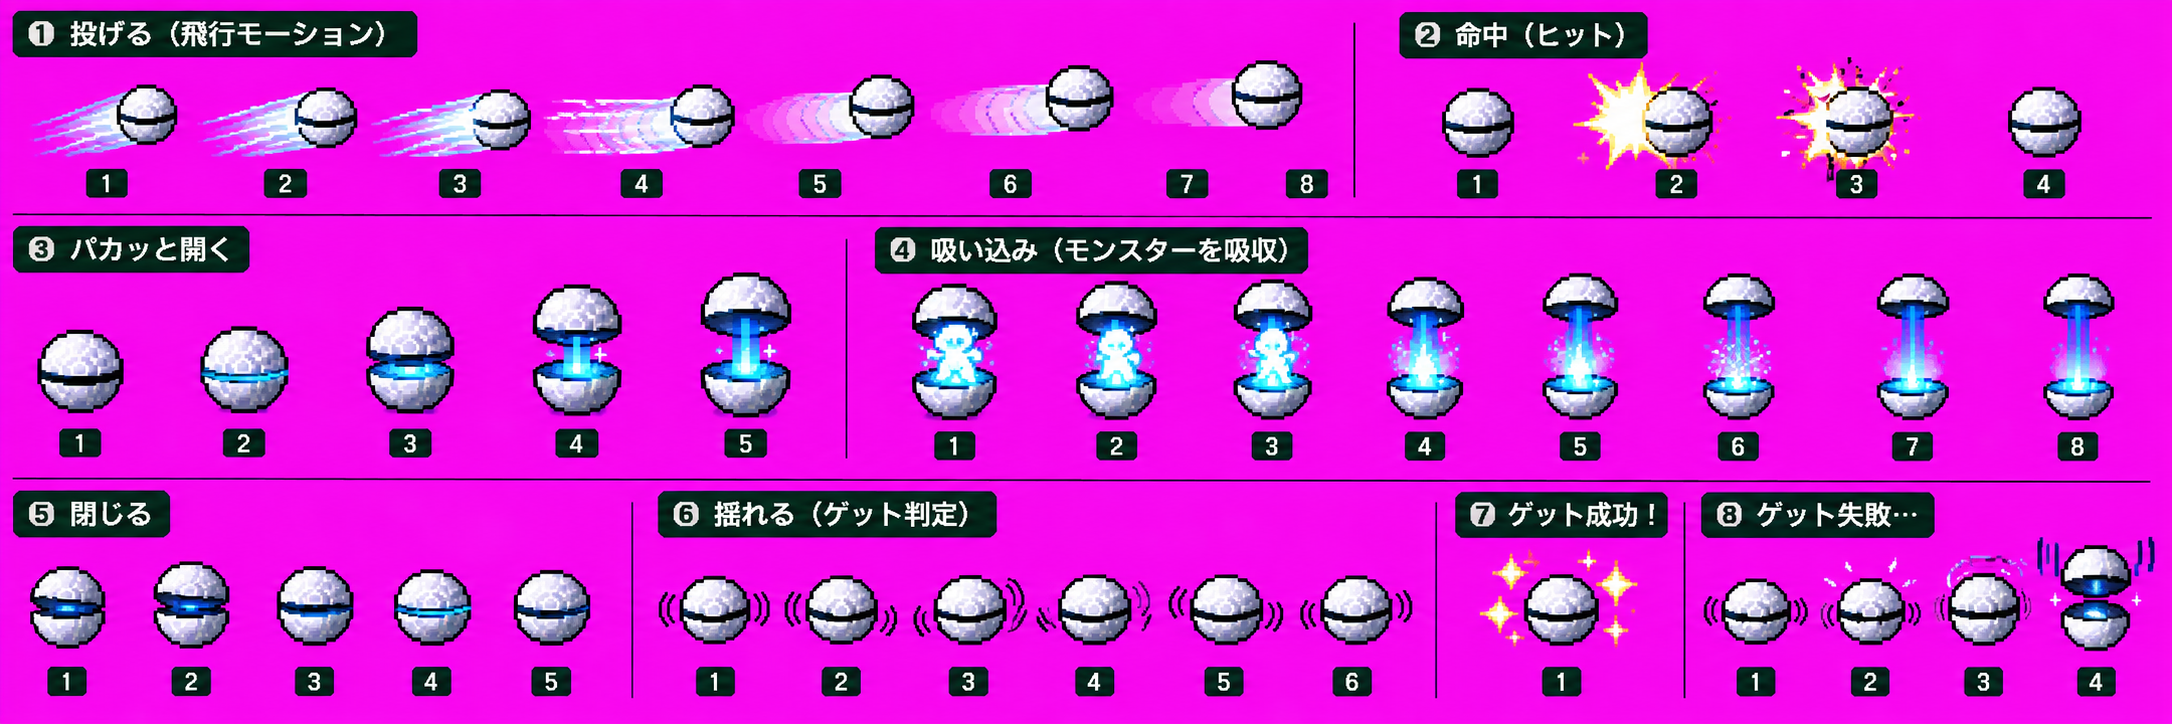
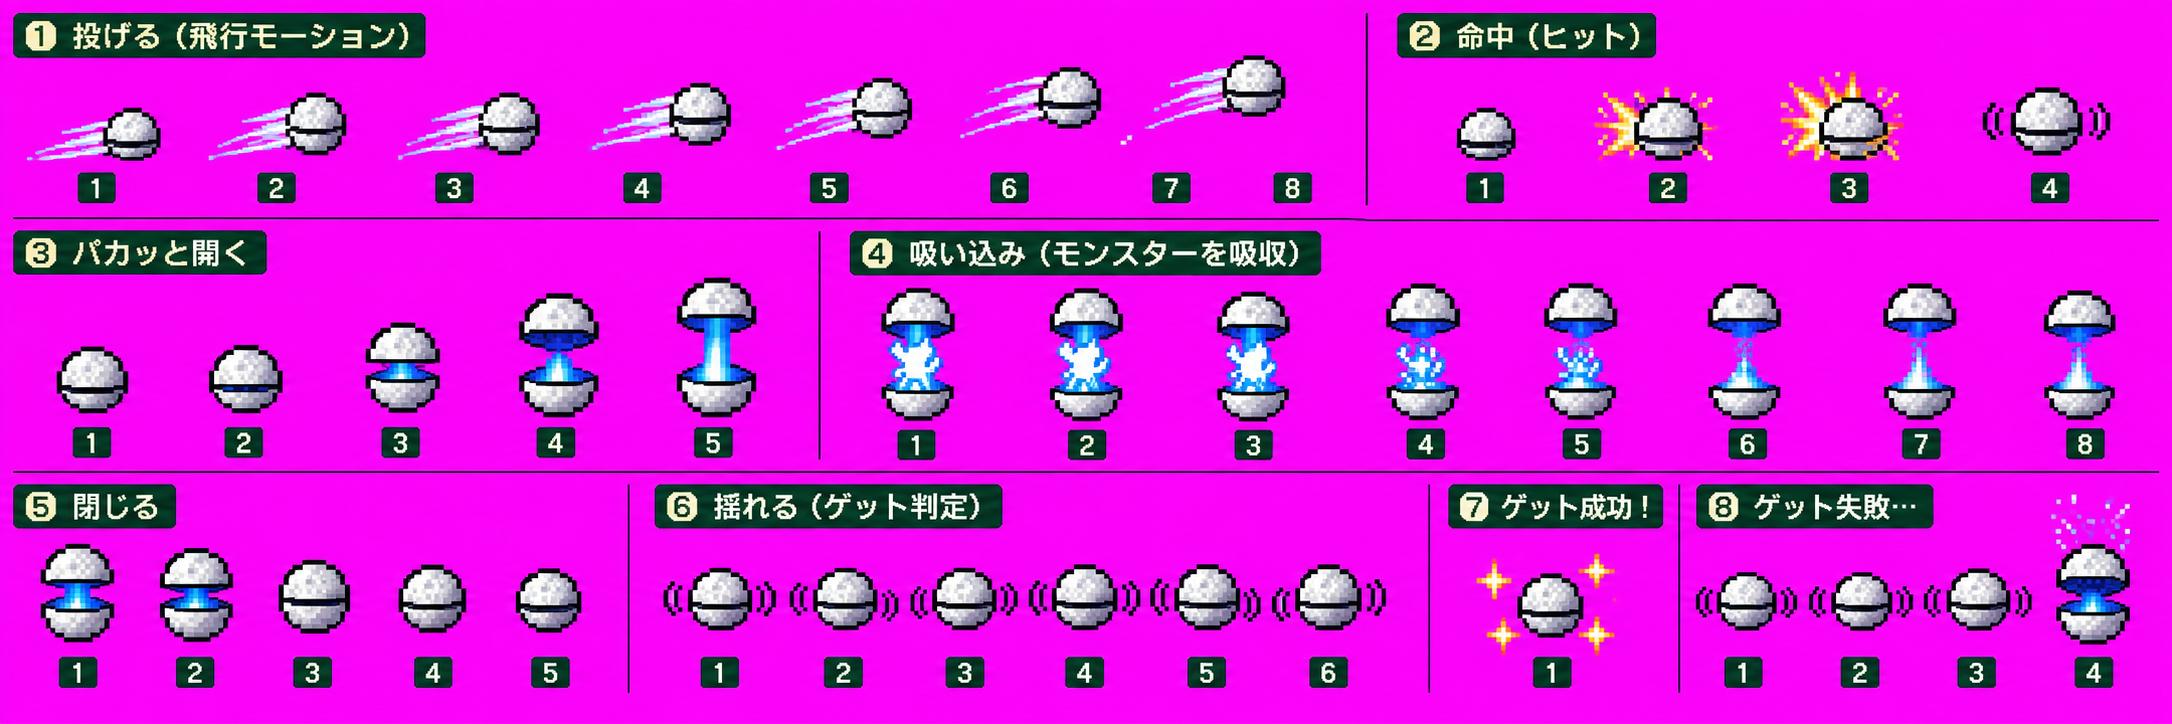
ガッツボールの絵を新シートに差し替え（マゼンタのにじみ除去・輪郭の紫がかりを黒に補正）。落下後に細かく震える段階を追加、静止中もかすかに震える。成功時はボールがつぶれて戻る「カチッ!」演出
Claude-Session: https://claude.ai/code/session_018VDSYCPciSbMvR8kKaJDnr

Changed region(s): [[0.0, 0.0, 1.0, 0.9724], [0.0, 0.0, 0.2159, 0.0912]]

diff --git a/js/scenes/battle.js b/js/scenes/battle.js
@@ -409,18 +409,23 @@ class BattleScene {
       case 'drop': {   // 落ちる（小さく弾む）
         const T = 14, k = Math.min(1, c.t / T);
         c.y = c.to.y + (c.ground - c.to.y) * k + (k > 0.8 ? -Math.sin((k - 0.8) / 0.2 * Math.PI) * 3 : 0);
-        if (c.t >= T) go('pause');
+        if (c.t >= T) go('tremble');
         break; }
-      case 'pause': if (c.t >= 34) { c.shakes++; go('shake'); } break;   // 静止（じらし）
+      case 'tremble': {   // ボールの中で暴れている：細かくブルブル（左右に1〜2px、2コマごと）
+        c.dx = (Math.floor(c.t / 2) % 2 ? 1 : -1) * (c.t < 20 ? 2 : 1); c.rot = 0;
+        if (c.t >= 34) { c.dx = 0; go('pause'); }
+        break; }
+      case 'pause': { c.dx = (c.t % 6 < 2) ? (c.t % 12 < 6 ? 1 : -1) * 0.5 : 0; if (c.t >= 34) { c.dx = 0; c.shakes++; go('shake'); } break; }   // 静止（じらし。かすかに震える）
       case 'shake': {   // 1回の揺れ 0.6秒：ぐらぐら（回転＋横ずれ、だんだん収まる）
         const k = c.t / 36, env = Math.max(0, 1 - k * 0.6);
         c.rot = Math.sin(c.t / 36 * Math.PI * 3) * 0.55 * env; c.dx = Math.sin(c.t / 36 * Math.PI * 3) * 2.5 * env;
         if (c.t >= 36) { c.rot = 0; c.dx = 0; if (c.shakes >= c.breakAt && !c.ok) go('breakout'); else if (c.shakes >= 3) go('hold'); else go('pause'); }
         break; }
       case 'hold': if (c.t >= 44) go('success'); break;   // 3回揺れたあとの一瞬の間（ここが一番の見せ場）
-      case 'success': {   // カチッ：小さなフラッシュだけ。ボールは閉じたまま残す
-        if (c.t === 1) c.flash = 8;
-        if (c.t >= 30) { go('done'); this.captured(); }
+      case 'success': {   // カチャッ：ボールが一瞬つぶれて戻る＋白い輪＋「カチッ!」。ボールは閉じたまま残す
+        if (c.t === 1) { c.flash = 8; this.pop(c.x, c.y - 26, 'カチッ!', '#fff6d8'); }
+        c.squash = c.t <= 4 ? 0.82 : c.t <= 8 ? 1.06 : 1;
+        if (c.t >= 36) { c.squash = 1; go('done'); this.captured(); }
         break; }
       case 'breakout': {   // パカッ→相手が光から戻る
         if (c.t === 1) c.flash = 6;
@@ -451,16 +456,16 @@ class BattleScene {
   }
   // ボールの絵（assets/ui/gutsball.png）。足元中央を (x, y) に置く
   static ball() { if (!this._ball) { const im = new Image(); im.src = CONFIG.GUTSBALL_IMG || 'assets/ui/gutsball.png'; this._ball = im; this._ballMeta = CONFIG.GUTSBALL_META || null; if (!this._ballMeta) fetch('assets/ui/gutsball.json').then(r => r.json()).then(m => { this._ballMeta = m; }).catch(() => {}); } return this._ball; }
-  drawBall(ctx, name, x, y, rot = 0, scale = 1) {
+  drawBall(ctx, name, x, y, rot = 0, scale = 1, squash = 1) {
     const im = BattleScene.ball(), m = BattleScene._ballMeta; if (!im.complete || !m || !m[name]) { ctx.fillStyle = '#f4f4f4'; ctx.beginPath(); ctx.arc(x, y - 8, 8, 0, Math.PI * 2); ctx.fill(); return; }
     const [sx, sy, sw, sh] = m[name];
-    ctx.save(); ctx.imageSmoothingEnabled = false; ctx.translate(x, y - 8); ctx.rotate(rot); ctx.scale(scale, scale);
+    ctx.save(); ctx.imageSmoothingEnabled = false; ctx.translate(x, y - 8 + (1 - squash) * 8); ctx.rotate(rot); ctx.scale(scale * (2 - squash), scale * squash);
     ctx.drawImage(im, sx, sy, sw, sh, -Math.round(sw / 2), -(sh - 8), sw, sh); ctx.restore();
   }
   drawCapture(ctx) {
     const c = this.cap; if (!c) return;
-    const frame = ['throw', 'hit', 'drop', 'pause', 'shake', 'hold', 'success', 'done'].includes(c.phase) ? 'closed'
-      : c.phase === 'open' ? (c.t < 6 ? 'open1' : 'open2') : c.phase === 'absorb' ? (Math.floor(c.t / 4) % 2 ? 'beam1' : 'beam2') : c.phase === 'close' ? (c.t < 6 ? 'open1' : 'closing') : 'burst';
+    const frame = ['throw', 'hit', 'drop', 'tremble', 'pause', 'shake', 'hold', 'success', 'done'].includes(c.phase) ? 'closed'
+      : c.phase === 'open' ? (c.t < 6 ? 'open1' : 'open2') : c.phase === 'absorb' ? (c.t > 30 ? 'beam3' : Math.floor(c.t / 4) % 2 ? 'beam1' : 'beam2') : c.phase === 'close' ? (c.t < 6 ? 'open1' : 'closing') : 'burst';
     // 軌跡
     if (c.phase === 'throw') { for (let i = 1; i <= 3; i++) { const k = Math.max(0, c.t - i * 2) / 24; const px = c.from.x + (c.to.x - c.from.x) * k, py = c.from.y + (c.to.y - c.from.y) * k - Math.sin(Math.PI * k) * 34; ctx.fillStyle = `rgba(255,255,255,${0.35 - i * 0.1})`; ctx.beginPath(); ctx.arc(px, py - 8, 7 - i, 0, Math.PI * 2); ctx.fill(); } }
     // 吸い込みの光の粒
@@ -468,14 +473,15 @@ class BattleScene {
     // 命中のヒット（黄色の放射）と白フラッシュ
     if (c.phase === 'hit') { ctx.fillStyle = `rgba(255,255,255,${0.6 * (1 - c.t / 10)})`; ctx.beginPath(); ctx.arc(c.to.x, c.to.y - 8, 10 + c.t * 2, 0, Math.PI * 2); ctx.fill(); this.drawSparkle(ctx, c.to.x, c.to.y - 8, c.t * 3, 10); }
     if (c.flash > 0) { ctx.fillStyle = `rgba(255,255,255,${0.7 * c.flash / 8})`; ctx.beginPath(); ctx.arc(c.x, c.y - 8, 14, 0, Math.PI * 2); ctx.fill(); }
+    if (c.phase === 'success' && c.t < 16) { ctx.strokeStyle = `rgba(255,255,255,${1 - c.t / 16})`; ctx.lineWidth = 2; ctx.beginPath(); ctx.arc(c.x, c.y - 8, 10 + c.t * 1.5, 0, Math.PI * 2); ctx.stroke(); }
     if (c.phase === 'breakout') { ctx.fillStyle = `rgba(200,240,255,${0.8 * (1 - c.t / 22)})`; ctx.beginPath(); ctx.arc(c.x, c.y - 8, 10 + c.t, 0, Math.PI * 2); ctx.fill(); }
-    this.drawBall(ctx, frame, Math.round(c.x + (c.dx || 0)), Math.round(c.y), c.rot);
+    this.drawBall(ctx, frame, Math.round(c.x + (c.dx || 0)), Math.round(c.y), c.rot, 1, c.squash || 1);
   }
   // 捕獲中の相手の描き方：吸い込み中は白く光りながら小さくなってボールへ。逃げ出すときはボールから戻る
   enemyCaptureView() {
     const c = this.cap; if (!c) return null;
     if (c.phase === 'absorb') { const k = c.t / 42; return { scale: 1 - k, white: Math.min(1, k * 1.5 + 0.3), toBall: k }; }
-    if (['close', 'drop', 'pause', 'shake', 'success', 'done'].includes(c.phase)) return { hidden: true };
+    if (['close', 'drop', 'tremble', 'pause', 'shake', 'hold', 'success', 'done'].includes(c.phase)) return { hidden: true };
     if (c.phase === 'breakout') { const k = Math.min(1, c.t / 16); return { scale: k, white: 1 - k, toBall: 1 - k }; }
     return null;
   }

diff --git a/tools/capture-test.js b/tools/capture-test.js
@@ -8,8 +8,8 @@ const run = async (rnd, tag) => {
   await page.evaluate((rnd)=>{const st=Save.newGame('T','m');st.party=[makeMonster('kokegame',10)];Party.full(st);st.items={'ガッツボール':10};st.map='road';Game.state=st;Game.replace(new FieldScene());const bs=new BattleScene({enemy:makeMonster('kinomushi',5),onEnd:r=>{window.__res=r;}});Game.push(bs);window.__rnd=rnd;}, rnd);
   await page.waitForTimeout(1500);
   await page.evaluate(()=>{const bs=Game.top(); bs.mode='command'; bs.enemy.hp=2; bs.shownHp.e=2; const orig=Math.random; Math.random=()=>window.__rnd; bs.throwBall('ガッツボール'); Math.random=orig;});
-  const phases=[]; const shots={throw:1,hit:1,absorb:1,shake:1,success:1,breakout:1,done:1};
-  for(let i=0;i<400;i++){ const ph=await page.evaluate(()=>{const b=Game.top(); return b.constructor.name==='BattleScene' ? (b.cap?b.cap.phase+':'+b.cap.t:b.mode) : b.constructor.name;}); if(!phases.length||phases[phases.length-1].split(':')[0]!==ph.split(':')[0]) phases.push(ph); const p0=ph.split(':')[0]; if(shots[p0]&&ph.endsWith(':'+(p0==='absorb'?'20':p0==='throw'?'12':p0==='done'?'3':'8'))){ await page.locator('#screen').screenshot({path:`cap_${tag}_${p0}.png`}); } if(ph==='FieldScene'||ph==='command') break; await page.waitForTimeout(16); }
+  const phases=[]; const shots={throw:1,hit:1,absorb:1,tremble:1,shake:1,success:1,breakout:1,done:1};
+  for(let i=0;i<400;i++){ const ph=await page.evaluate(()=>{const b=Game.top(); return b.constructor.name==='BattleScene' ? (b.cap?b.cap.phase+':'+b.cap.t:b.mode) : b.constructor.name;}); if(!phases.length||phases[phases.length-1].split(':')[0]!==ph.split(':')[0]) phases.push(ph); const p0=ph.split(':')[0]; if(shots[p0]&&ph.endsWith(':'+(p0==='absorb'?'20':p0==='throw'?'12':p0==='done'?'0':p0==='success'?'3':'8'))){ await page.locator('#screen').screenshot({path:`cap_${tag}_${p0}.png`}); } if(ph==='FieldScene'||ph==='command') break; await page.waitForTimeout(16); }
   console.log(tag, phases.join(' > '), 'result', await page.evaluate(()=>window.__res), 'party', await page.evaluate(()=>Game.state.party.map(m=>m.name).join(',')), 'balls', await page.evaluate(()=>Game.state.items['ガッツボール']));
 };
 await run(0.0,'ok'); await run(0.99,'ng');

diff --git a/tools/gutsball.py b/tools/gutsball.py
@@ -7,11 +7,11 @@ import json
 from PIL import Image
 import numpy as np
 src = Image.open('assets/src/gutsball_sheet.png').convert('RGB'); A = np.asarray(src).astype(int)
-mag = (A[:, :, 0] > 190) & (A[:, :, 1] < 120) & (A[:, :, 2] > 190)
-DOT = 4.4   # 元絵の1ドット（ボール直径 ≈ 70px ≈ 16ドット）
+mag = (A[:, :, 0] > 150) & (A[:, :, 2] > 150) & ((A[:, :, 0] + A[:, :, 2]) / 2 - A[:, :, 1] > 60)   # マゼンタ（縁のにじみも含めて広めに）
+DOT = 4.1   # 元絵の1ドット（ボール直径 ≈ 65px ≈ 16ドット）
 FRAMES = {  # name: (x, y, w, h) 元絵のpx
-    'closed': (1442, 87, 73, 71), 'open1': (200, 326, 89, 88), 'open2': (366, 306, 89, 108),
-    'beam1': (532, 284, 90, 132), 'beam2': (700, 272, 92, 146), 'burst': (2060, 545, 72, 106), 'closing': (153, 561, 77, 88),
+    'closed': (56, 346, 73, 68), 'open1': (209, 345, 74, 69), 'open2': (365, 322, 75, 91),
+    'beam1': (519, 293, 80, 125), 'beam2': (677, 277, 80, 141), 'beam3': (1708, 283, 73, 137), 'burst': (2056, 544, 74, 101), 'closing': (160, 548, 73, 94),
 }
 def pixelize(reg, m, tw, th):
     h, w = reg.shape[:2]; bx, by = w / tw, h / th; r = max(1, int(min(bx, by) * 0.3))
@@ -28,6 +28,14 @@ cells = {}
 for name, (x, y, w, h) in FRAMES.items():
     reg = A[y:y + h, x:x + w]; m = ~mag[y:y + h, x:x + w]
     px = pixelize(reg, m, max(1, round(w / DOT)), max(1, round(h / DOT)))
+    # マゼンタのにじみ（ピンクがかった縁）を消す
+    arr = np.asarray(px).copy().astype(int)
+    pinkish = (arr[:, :, 3] > 0) & ((arr[:, :, 0] + arr[:, :, 2]) / 2 - arr[:, :, 1] > 55) & (arr[:, :, 0] > 120) & (arr[:, :, 2] > 120)
+    arr[pinkish] = 0
+    # 輪郭の暗い紫がかり（黒線とマゼンタの混ざり）は黒線の色に寄せる
+    purplish = (arr[:, :, 3] > 0) & ((arr[:, :, 0] + arr[:, :, 2]) / 2 - arr[:, :, 1] > 18) & (arr[:, :, :3].max(2) < 150)
+    arr[purplish, :3] = [26, 26, 32]
+    px = Image.fromarray(arr.astype(np.uint8), 'RGBA')
     bb = px.getbbox(); cells[name] = px.crop(bb)
 W = sum(c.width + 2 for c in cells.values()); H = max(c.height for c in cells.values())
 sheet = Image.new('RGBA', (W, H), (0, 0, 0, 0)); meta = {}; x = 0
